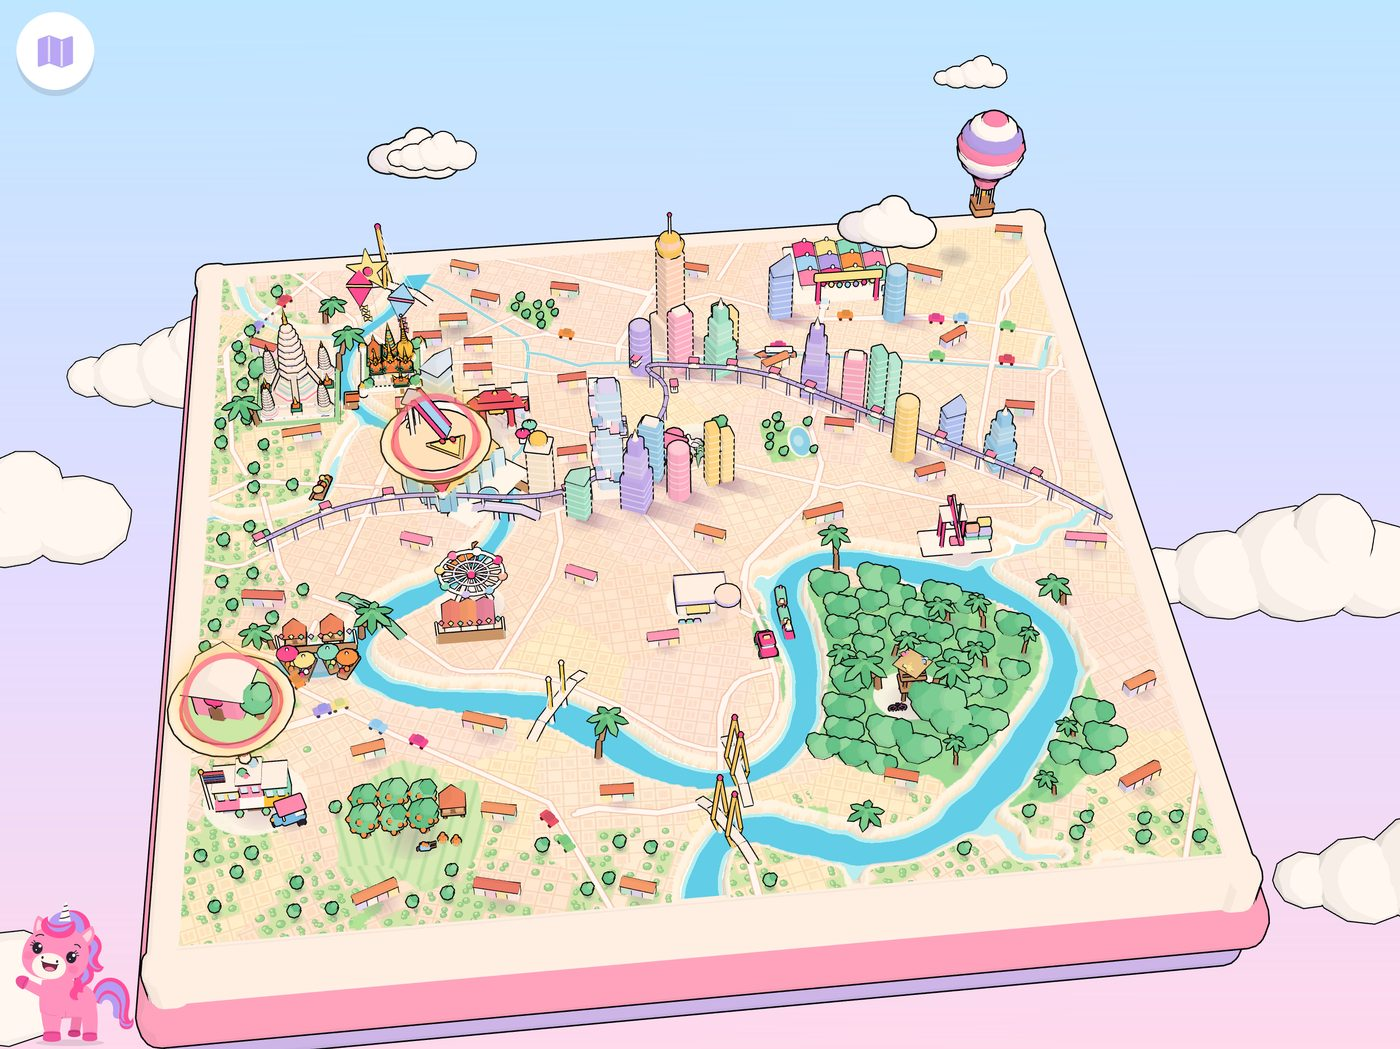
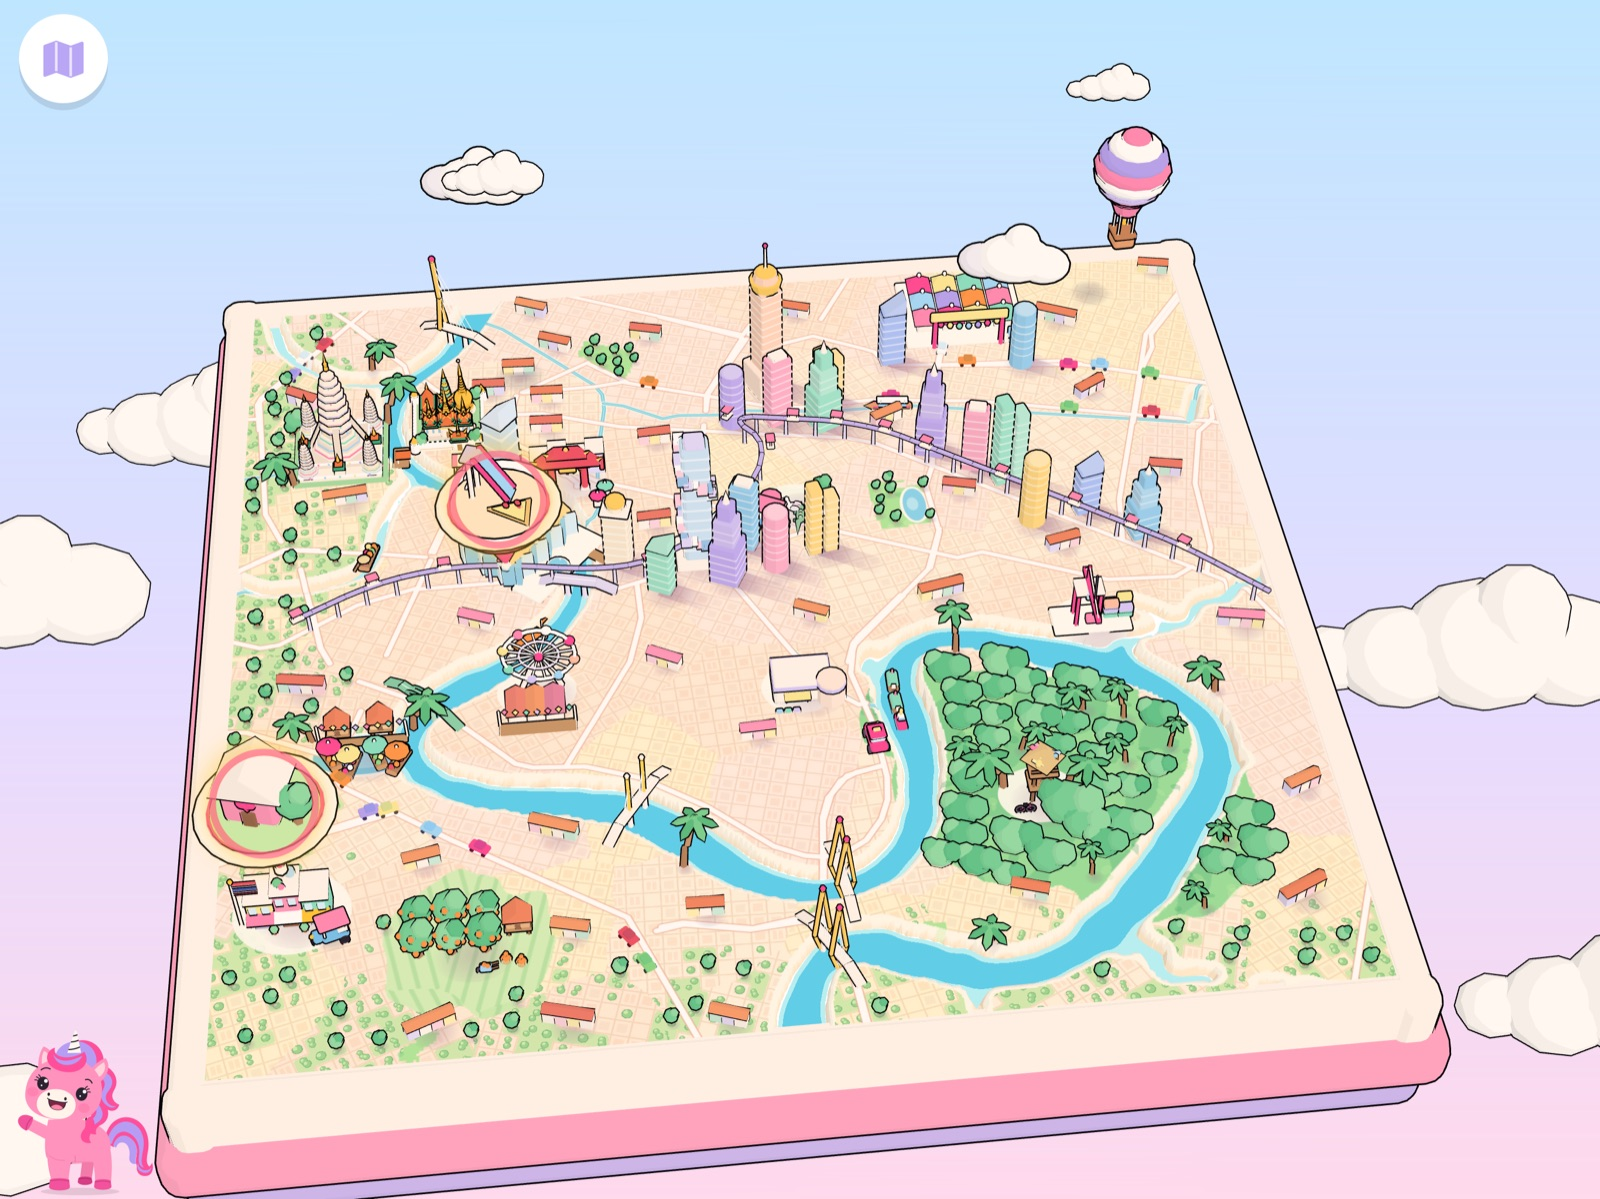
Review page for neb636/bangkok-landmarks

diff --git a/neb636--bangkok-landmarks/index.html b/neb636--bangkok-landmarks/index.html
@@ -37,7 +37,7 @@ button:focus-visible,.pill:focus-visible{outline:3px solid var(--ink);outline-of
 </style></head><body><main>
 <span class="chip">Check-in fix</span>
 <h1>Bangkok map: Wat Arun and the Grand Palace</h1>
-<p class="kaylee">The Bangkok map now shows Wat Arun on the Thonburi bank and the Grand Palace across the river, so it looks like Bangkok at a glance. They're scenery only, so tapping them does nothing.</p>
+<p class="kaylee">The Bangkok map now shows Wat Arun on the Thonburi bank and the Grand Palace across the river, so it looks like Bangkok at a glance. They're scenery only, so tapping them does nothing. The kites over Sanam Luang are gone, so the corner is calmer and you can see the Grand Palace.</p>
 
 
 <h2>Before and after</h2><div class="pics"><figure class="pair"><div><img src="pics/oldtown-before.jpg" alt="Before: The old town" loading="lazy"><span>Before</span></div><div><img src="pics/oldtown-after.jpg" alt="After: The old town" loading="lazy"><span>After</span></div>
